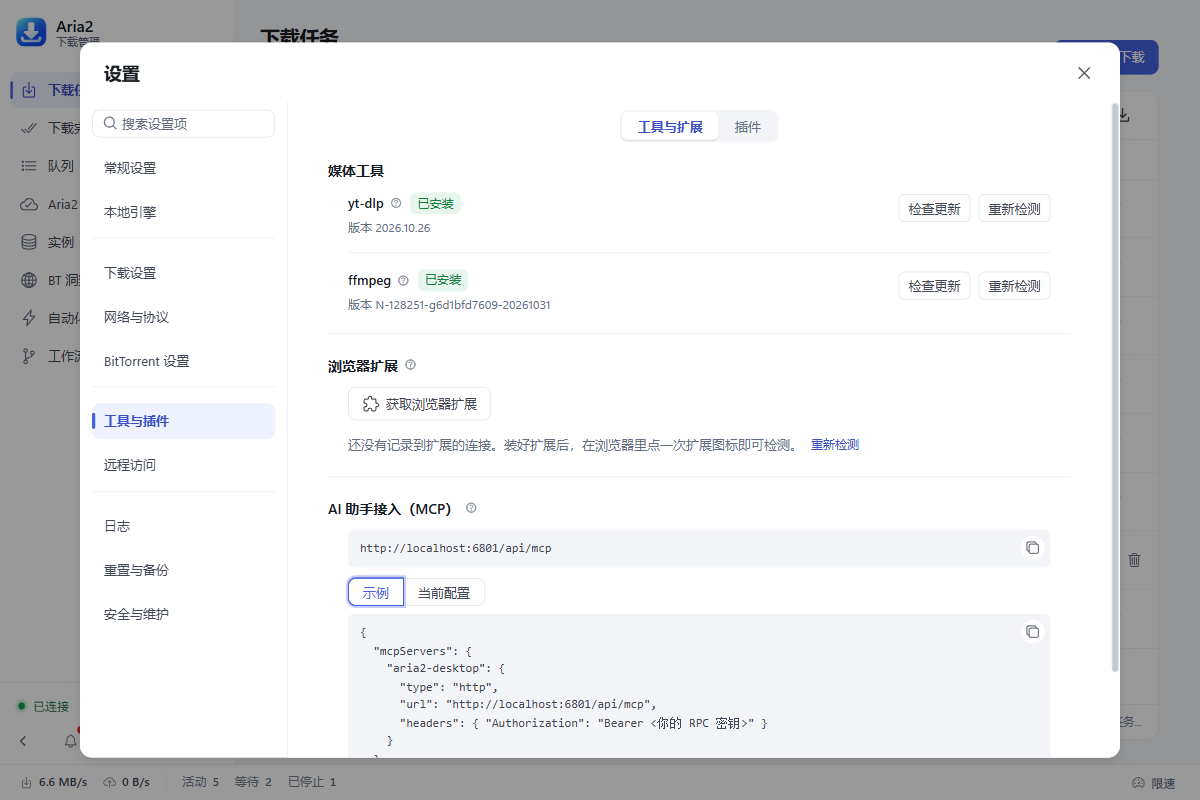
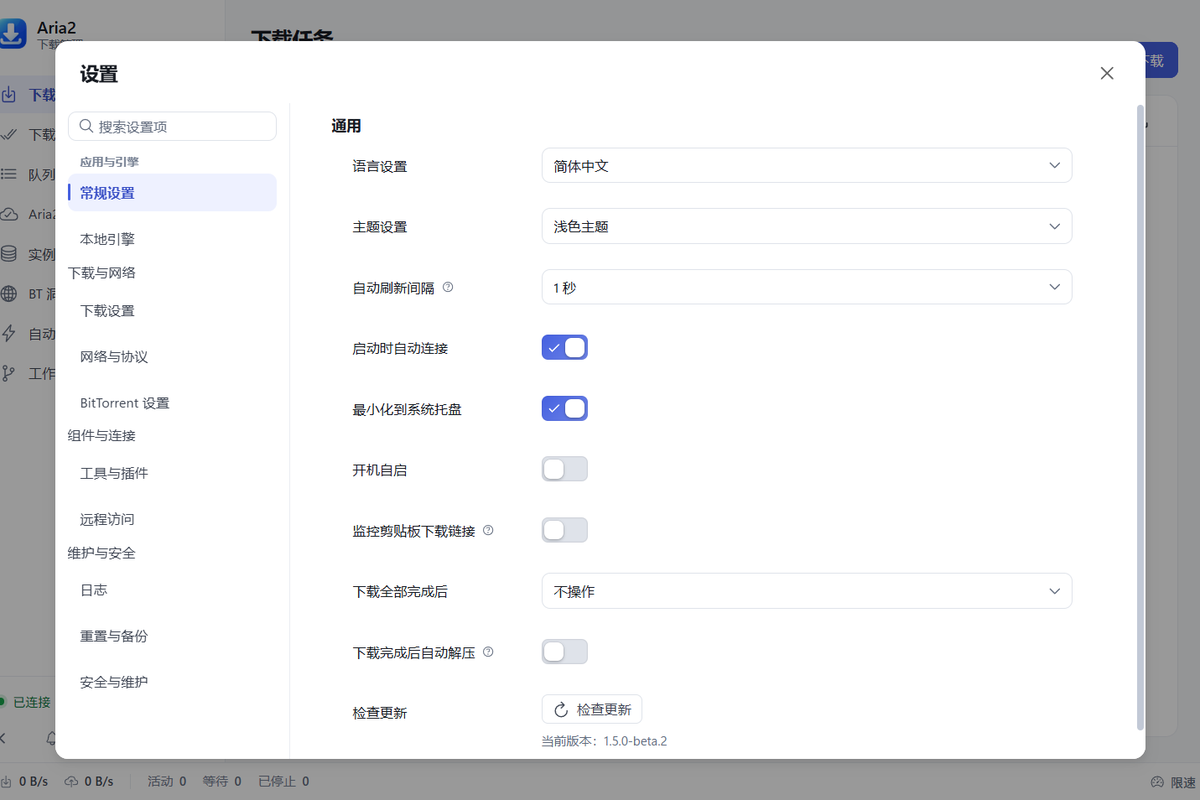
docs: 补齐 1.5.0 README 功能条目与回退说明，刷新界面截图；test: 引擎重启 50 轮压力用例

diff --git a/electron/services/engineShutdownService.stress.test.ts b/electron/services/engineShutdownService.stress.test.ts
@@ -1,0 +1,171 @@
+import { spawn, type ChildProcess } from 'node:child_process'
+import { afterAll, describe, expect, it, vi } from 'vitest'
+
+/**
+ * 更新重启压力测试（发布清单 5.7「50 次更新重启压力测试，无孤儿进程」的自动化版本）。
+ *
+ * 为什么单独放一个被环境变量门控的测试文件，而不是普通单测：
+ * 每次迭代都会 spawn 真实子进程 + 真实 TCP 监听 + 真实 taskkill/SIGKILL，
+ * 慢且依赖 OS，不适合进常规套件（CI 上易 flaky）。默认跳过，
+ * 需要时显式跑：STRESS_ENGINE_RESTART=1 npx vitest run electron/services/engineShutdownService.stress.test.ts
+ *
+ * 覆盖点：
+ * 1. 引擎收到 quit 后自行退出、端口释放（正常路径）；
+ * 2. 引擎赖着不走时由 EngineShutdownService 强杀进程树、端口仍能释放（超时路径）；
+ * 3. N 轮之后没有残留监听端口、没有孤儿进程。
+ */
+
+vi.mock('../utils/logger', () => ({
+  createLogger: () => ({ info: vi.fn(), warn: vi.fn(), error: vi.fn(), debug: vi.fn() })
+}))
+
+import { EngineShutdownService, probeLocalPortInUse } from './engineShutdownService'
+
+const ENABLED = process.env.STRESS_ENGINE_RESTART === '1'
+const ITERATIONS = Number(process.env.STRESS_ENGINE_RESTART_ROUNDS ?? 50)
+const BASE_PORT = 6811
+const PORT_SPAN = 4
+/** 每 N 轮模拟一次「引擎赖着不走」，验证强杀路径 */
+const STUBBORN_EVERY = 10
+
+/** 子进程脚本：监听一个端口，收到 quit 时（非赖着模式）退出 */
+const ENGINE_SCRIPT = `
+const net = require('node:net')
+const server = net.createServer((socket) => socket.end())
+server.listen(Number(process.env.STRESS_PORT), '127.0.0.1')
+const stubborn = process.env.STRESS_STUBBORN === '1'
+process.stdin.on('data', (chunk) => {
+  if (!stubborn && String(chunk).includes('quit')) {
+    server.close(() => process.exit(0))
+    setTimeout(() => process.exit(0), 200)
+  }
+})
+process.stdin.resume()
+setInterval(() => {}, 1000)
+`
+
+const sleep = (ms: number): Promise<void> => new Promise((resolve) => setTimeout(resolve, ms))
+
+const spawned: ChildProcess[] = []
+
+function isAlive(pid: number): boolean {
+  try {
+    process.kill(pid, 0)
+    return true
+  } catch {
+    return false
+  }
+}
+
+async function waitForPort(port: number, inUse: boolean, timeoutMs = 5000): Promise<boolean> {
+  const deadline = Date.now() + timeoutMs
+  while (Date.now() < deadline) {
+    if ((await probeLocalPortInUse(port, 200)) === inUse) return true
+    await sleep(50)
+  }
+  return false
+}
+
+interface RoundResult {
+  iteration: number
+  port: number
+  stubborn: boolean
+  success: boolean
+  forced: boolean
+  waitedMs: number
+}
+
+async function runRound(iteration: number): Promise<RoundResult> {
+  const port = BASE_PORT + (iteration % PORT_SPAN)
+  const stubborn = iteration % STUBBORN_EVERY === 0
+  const child = spawn(process.execPath, ['-e', ENGINE_SCRIPT], {
+    env: { ...process.env, STRESS_PORT: String(port), STRESS_STUBBORN: stubborn ? '1' : '0' },
+    stdio: ['pipe', 'ignore', 'ignore'],
+    windowsHide: true
+  })
+  spawned.push(child)
+
+  let exited = false
+  child.once('exit', () => {
+    exited = true
+  })
+
+  try {
+    // 等引擎真正开始监听，否则「端口已释放」会被误判为成功
+    await waitForPort(port, true)
+
+    const service = new EngineShutdownService({
+      getProcessManager: () => ({
+        isRunning: () => !exited,
+        stop: async () => {
+          child.stdin?.write('quit\\n')
+          const deadline = Date.now() + 800
+          while (!exited && Date.now() < deadline) await sleep(25)
+          return exited
+        },
+        getProcessInfo: () => ({ isRunning: !exited, pid: child.pid ?? null })
+      }),
+      getPort: () => port,
+      pollIntervalMs: 50,
+      forceKillWaitMs: 2000
+    })
+
+    const result = await service.requestShutdownAndWait(3000)
+    return {
+      iteration,
+      port,
+      stubborn,
+      success: result.success,
+      forced: result.forced,
+      waitedMs: result.waitedMs
+    }
+  } finally {
+    child.stdin?.destroy()
+    if (!exited) child.kill()
+    await sleep(50)
+  }
+}
+
+describe.skipIf(!ENABLED)('引擎重启压力测试（无孤儿进程）', () => {
+  afterAll(() => {
+    for (const child of spawned) {
+      if (child.exitCode === null && child.pid) {
+        try {
+          process.kill(child.pid)
+        } catch {
+          // 已退出
+        }
+      }
+    }
+  })
+
+  it(
+    `连续 ${ITERATIONS} 轮关闭引擎后无残留端口与孤儿进程`,
+    async () => {
+      const results: RoundResult[] = []
+      for (let i = 0; i < ITERATIONS; i += 1) {
+        results.push(await runRound(i))
+      }
+
+      // 1. 每一轮都必须成功关闭（含被强杀的轮次：强杀后仍需等到端口释放）
+      const failed = results.filter((r) => !r.success)
+      expect(failed.map((r) => `第 ${r.iteration} 轮（端口 ${r.port}）`)).toEqual([])
+
+      // 2. 至少触发过一次强杀，否则说明超时路径没被覆盖到
+      expect(results.some((r) => r.forced)).toBe(true)
+
+      // 3. 结束后所有用到的端口都已释放
+      const leakedPorts: number[] = []
+      for (let offset = 0; offset < PORT_SPAN; offset += 1) {
+        const port = BASE_PORT + offset
+        if (await probeLocalPortInUse(port, 300)) leakedPorts.push(port)
+      }
+      expect(leakedPorts).toEqual([])
+
+      // 4. 没有孤儿进程
+      const orphans = spawned.map((child) => child.pid).filter((pid): pid is number => typeof pid === 'number' && isAlive(pid))
+      expect(orphans).toEqual([])
+    },
+    10 * 60 * 1000
+  )
+})

diff --git a/README.en.md b/README.en.md
@@ -28,9 +28,11 @@
 
 ![Task list](assets/screenshot-light.png)
 
-| Dark theme | Tools and extensions |
+| Dark theme | Settings (grouped navigation + global search) |
 |:---:|:---:|
 | ![Dark theme](assets/screenshot-dark.png) | ![Settings](assets/screenshot-settings.png) |
+
+![First-run wizard](assets/screenshot-onboarding.png)
 
 ## Features
 
@@ -51,13 +53,18 @@
 - Failed tasks can be rebuilt and retried from their original source (URL, torrent or magnet info hash); unfinished tasks and download history support redacted export and validated import for easy migration
 - Deleted task files go to the system recycle bin by default, so accidental deletions can be recovered; open completed files or their folders directly, or open several selected tasks at once
 - **Speed graph and retry markers**: the Status page shows live speed history and marks automatic retries on the graph; task details include peer clients and IP geolocation
+- **Editable task details**: change the destination folder, speed limit and request headers of a running task without deleting and recreating it
+- **Failed-only view and batch retry**: filter to failed tasks and retry them in one go; batch actions (start/pause/delete) end with a result panel that lists failures and their reasons, keeping failed items selected
 
 ### Interface and system integration
 
 - Dark/light theme (including follow-system), 21 interface languages (Simplified Chinese / Traditional Chinese / English / Japanese / Korean / German / French / Spanish / Portuguese / Italian / Russian / Arabic / Hindi / Thai / Vietnamese / Indonesian / Turkish / Dutch / Polish / Ukrainian / Czech); built-in **Diagnostics Center** checks RPC, disk space, secrets, UPnP, trackers and history storage, then exports a redacted report
 - Task details with peers, servers and piece information, plus connection count
 - Notification center with completed/failed records and unread badges, plus per-notification delete
-- Tray icon, taskbar progress and launch-at-login; after download completion, apply completion rules to open files/folders, shut down, sleep or close the app
+- Tray icon, taskbar progress and launch-at-login; after download completion, apply completion rules to open files/folders, shut down, sleep or close the app; the tray tooltip shows live total speed and active task count, and the tray menu can restart a failed engine
+- **First-run wizard**: a four-step guide for the download folder, extension pairing, yt-dlp and remote access — every step can be skipped and it will not appear again
+- **Download trends**: 7-day and 30-day completion and volume trends on the completed page
+- **Right-to-left layouts**: the whole interface mirrors automatically for RTL languages such as Arabic
 - Copy a download link and return to the app to be prompted with a new-task window (clipboard monitoring can be disabled in Settings); global shortcuts (<code>Ctrl+N</code> new task, <code>Ctrl+F</code> search, <code>Ctrl+Shift+P</code> pause all, and more)
 - One-click system proxy detection and autofill; in-app update checks (delta updates on Windows, full packages on macOS/Linux); Linux AppImages embed update information and ship `.zsync` files for delta upgrades via AppImageUpdate / <code>appimageupdatetool</code>
 
@@ -142,6 +149,9 @@ If a system proxy is enabled, <code>127.0.0.1</code> may be intercepted — chan
 
 **Port 6800 is already in use**
 Another Aria2 Desktop instance or another download tool is probably using it. Quit the extra instance or change the port in Settings.
+
+**How do I roll back to an older version**
+Download the older installer and install it over the current one — settings and download history live in your user directory and are unaffected by the installer. Pre-releases such as <code>v1.5.0-beta.2</code> are never served by the automatic updater, so get them from [Releases](../../releases). Before rolling back, export a settings backup from Settings → Reset &amp; Backup.
 
 **Automatic update fails / verification fails**
 The app compares the downloaded file with the Release <code>.sha256</code>; on mismatch it refuses to install and falls back to a full download. You can also download and install the package manually.

diff --git a/README.md b/README.md
@@ -29,9 +29,11 @@
 
 ![任务列表](assets/screenshot-light.png)
 
-| 深色主题 | 工具与扩展 |
+| 深色主题 | 设置（按组分类 + 全局搜索） |
 |:---:|:---:|
 | ![深色主题](assets/screenshot-dark.png) | ![设置](assets/screenshot-settings.png) |
+
+![首次启动向导](assets/screenshot-onboarding.png)
 
 ## 功能
 
@@ -52,13 +54,18 @@
 - 失败任务可按原始来源（链接/种子/磁力信息哈希）重建并重试；未完成任务与完成历史支持脱敏导出/校验导入，换机迁移方便
 - 删除任务文件默认移到系统回收站，误删可恢复；完成页可直接打开文件或所在目录，也支持批量打开已选任务
 - **速度曲线与重试断点**：状态页显示实时速度历史，自动重试时在曲线叠加标记；任务详情含 Peer 客户端与 IP 归属地
+- **任务详情可编辑**：运行中的任务可改保存目录、限速与请求头，无需删除重建
+- **仅看失败 + 批量重试**：失败任务可一键筛选并批量重试；批量操作（开始/暂停/删除）结束后弹出结果面板，列出失败项与原因，失败项自动保持选中
 
 ### 界面与系统集成
 
 - 深色/浅色主题（可跟随系统）、21 种语言界面（简体中文 / 繁體中文 / English / 日本語 / 한국어 / Deutsch / Français / Español / Português / Italiano / Русский / العربية / हिन्दी / ไทย / Tiếng Việt / Bahasa Indonesia / Türkçe / Nederlands / Polski / Українська / Čeština）；内置「诊断中心」一键检查 RPC、磁盘空间、密钥、UPnP、Tracker 与历史存储并导出脱敏报告
 - 任务详情含 Peer、服务器、分片信息与连接数
 - 通知中心保留完成/失败记录与未读角标，支持逐条删除
-- 托盘常驻、任务栏进度、开机自启；下载完成后可按完成规则打开文件/目录、关机/休眠/关闭应用
+- 托盘常驻、任务栏进度、开机自启；下载完成后可按完成规则打开文件/目录、关机/休眠/关闭应用；托盘提示实时显示总速度与活动任务数，引擎异常退出后托盘菜单可直接「重启引擎」
+- **首次启动向导**：四步引导配置下载目录、扩展配对、yt-dlp 与远程访问，每步都可跳过，完成后不再打扰
+- **下载趋势**：完成页提供 7 天 / 30 天完成量与数据量趋势
+- **从右到左界面**：阿拉伯语等 RTL 语言下整体布局自动镜像
 - 复制下载链接后切回应用可自动弹出新建窗口（可在设置中关闭剪贴板监控）；全局快捷键（`Ctrl+N` 新建、`Ctrl+F` 搜索、`Ctrl+Shift+P` 暂停全部…）
 - 系统代理一键检测填入；应用内检查更新（Windows 差量、macOS / Linux 完整包）；Linux AppImage 内嵌更新信息并附带 `.zsync` 文件，可用 AppImageUpdate / `appimageupdatetool` 增量升级
 
@@ -148,6 +155,9 @@ Linux 的 `AppImage` 需要先 `chmod +x Aria2Desktop-*.AppImage`。需要校验
 
 **自动更新失败 / 校验不通过**
 应用会比对 Release 的 `.sha256`，不匹配就拒绝安装并回落完整下载；网络异常时可手动下载安装包覆盖安装。
+
+**如何回退到旧版本**
+直接下载旧版本安装包覆盖安装即可（设置与下载历史保存在用户目录，不随安装包变化）；预发布版（如 `v1.5.0-beta.2`）不会出现在自动更新通道里，需要从 [Releases](../../releases) 手动获取。升级到新版本后若要回退，建议先在「设置 → 重置与备份」导出一份配置备份。
 
 **卸载后有残留**
 设置文件不会随卸载删除（含配置与会话），需要彻底清理时手动删除对应目录：
